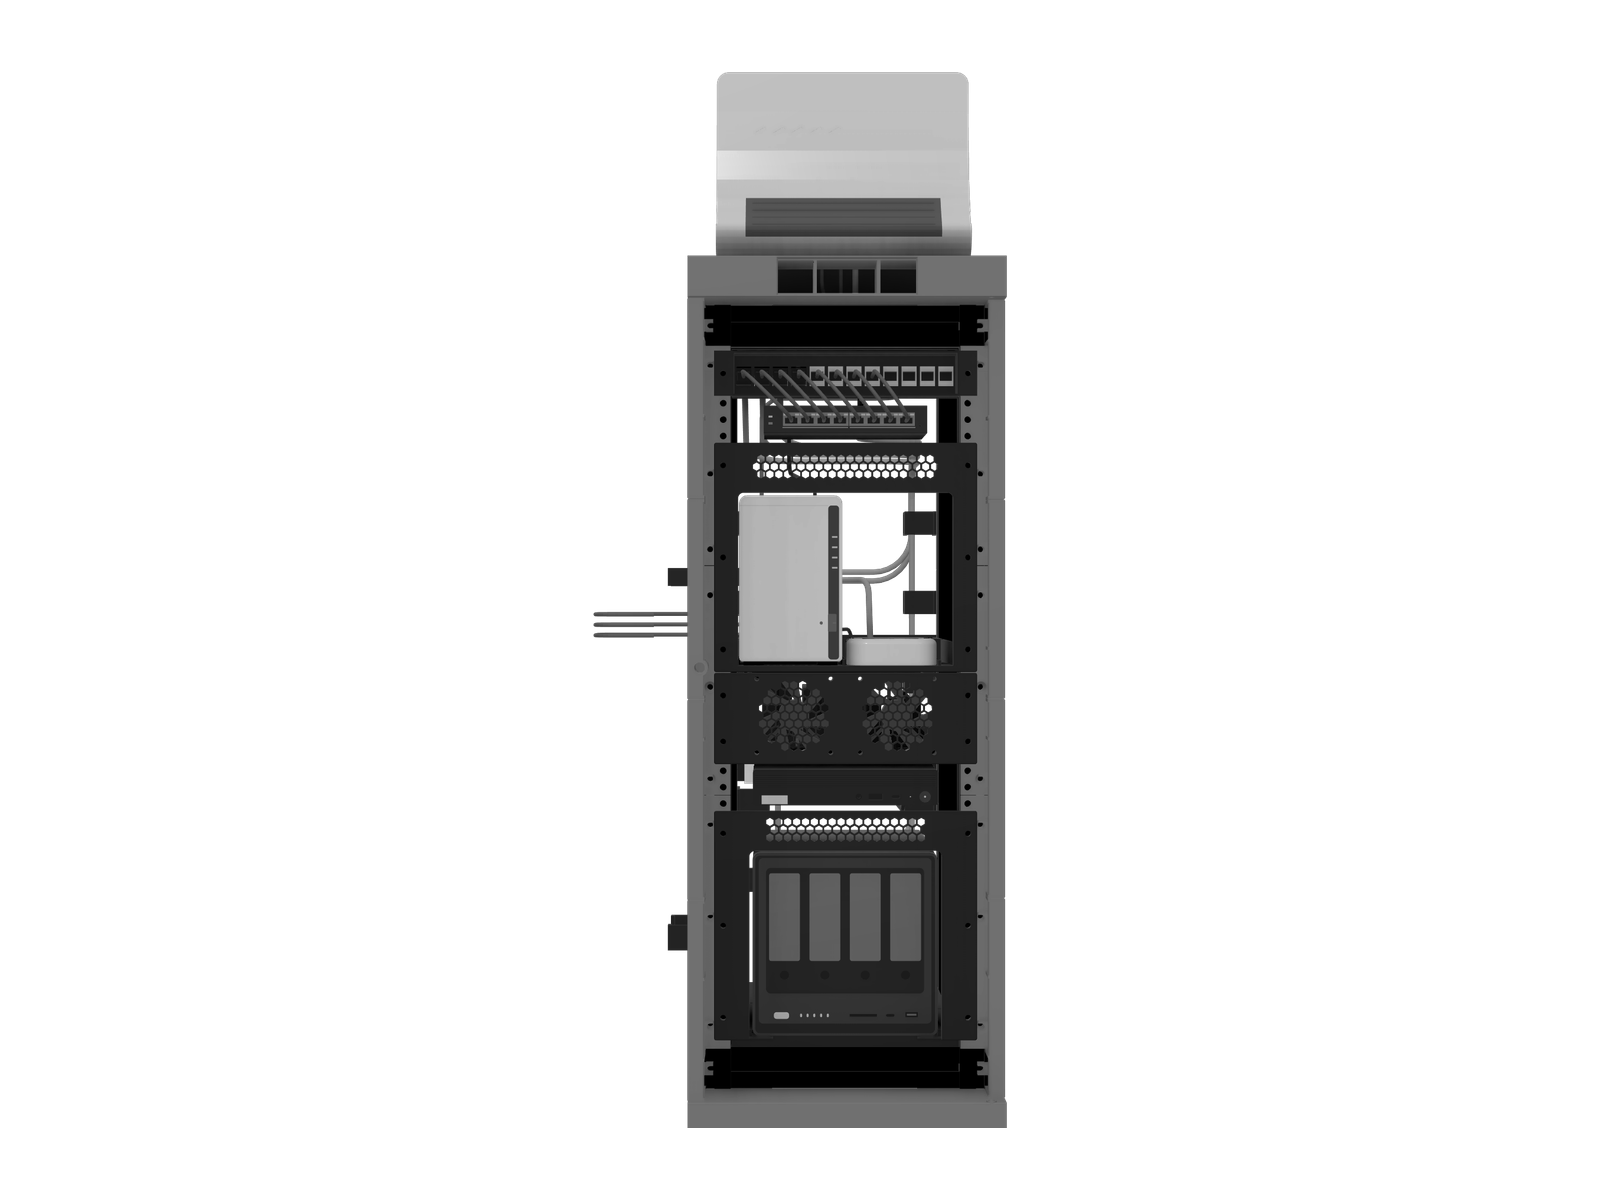
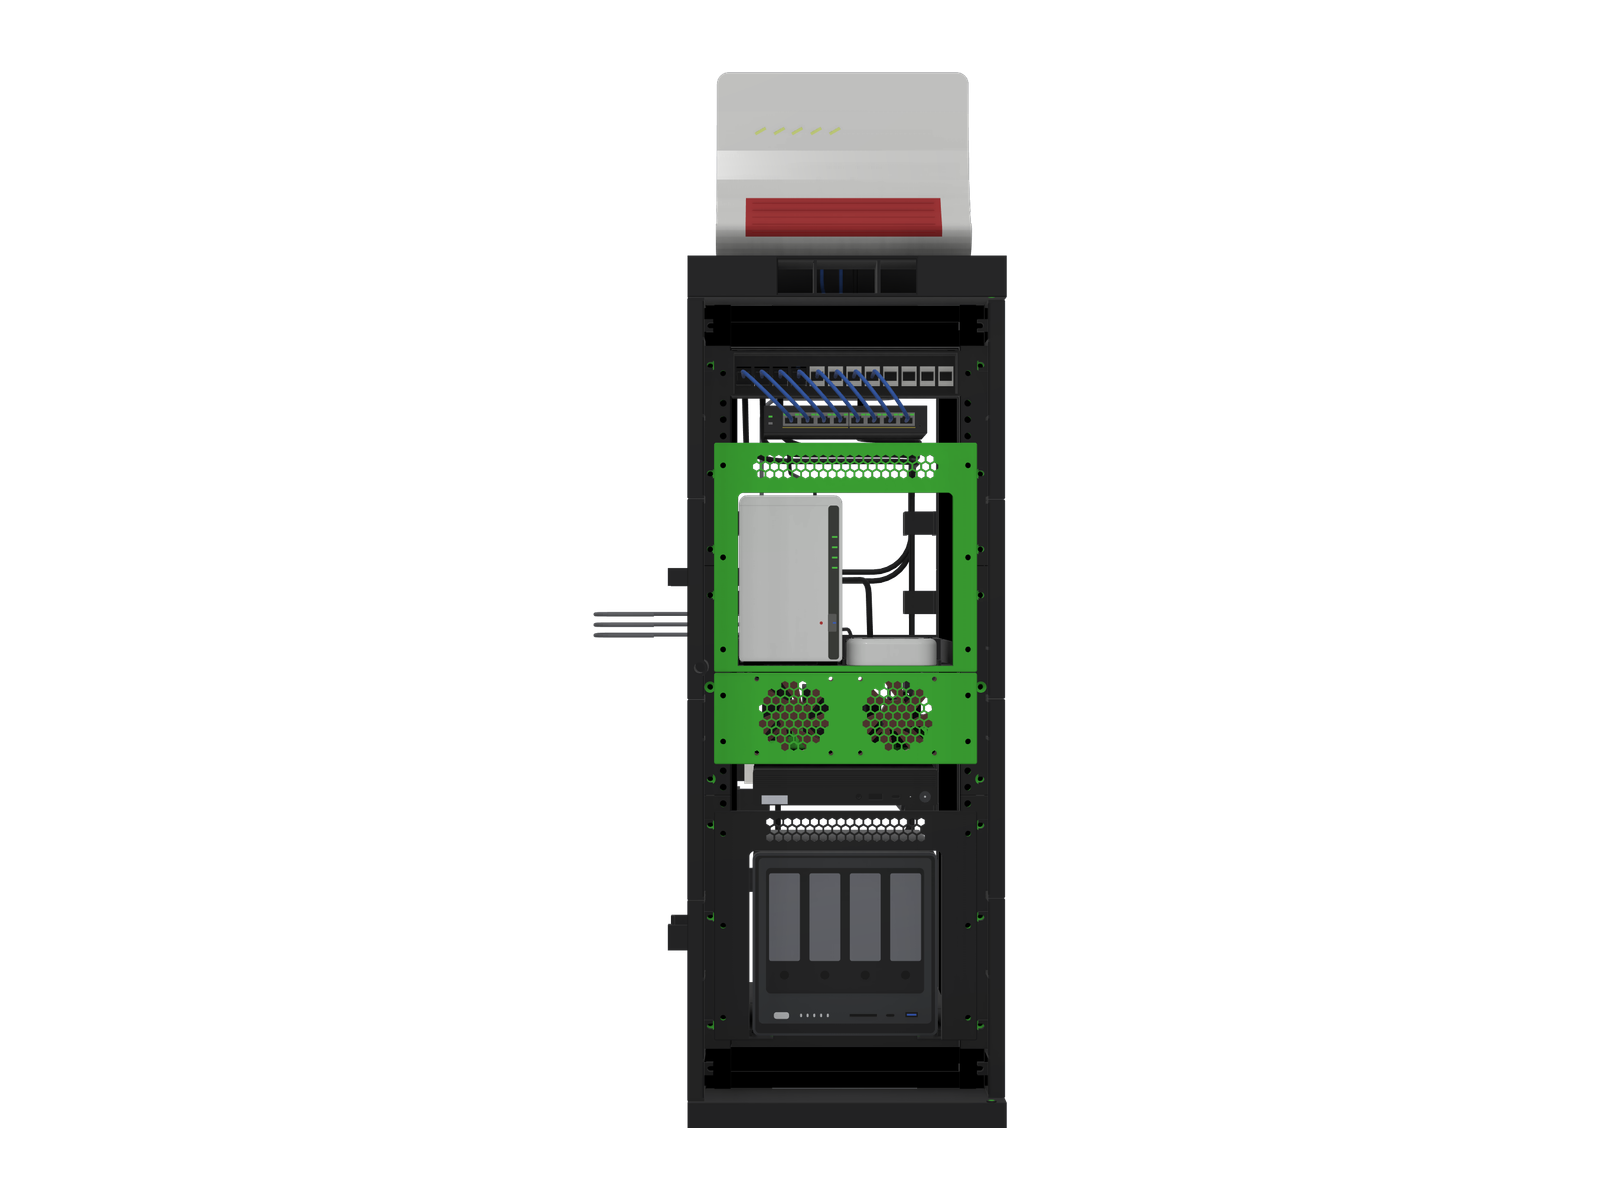
Rack: render con i colori di progetto (versione 21), non piu' in scala di grigi
Il modello Fusion ha ora i colori decisi: struttura stampata nera, dettagli
verdi (vassoi, cornice, piedini, tappi, fori delle viti), cavi per tipo,
apparecchi con i colori reali. Gli 8 render e il ritaglio dell'hero sono
rifatti a colori; l'eccezione alla regola "niente rosso nelle immagini"
(il rosso del router) e' scritta in ADR-018 come decisione di Lorenzo.

Changed region(s): [[0.4062, 0.1542, 0.6562, 0.9558]]

diff --git a/docs/architecture.md b/docs/architecture.md
@@ -283,6 +283,12 @@ definizione: riprende i colori del sito. I render di quella scheda restano a
 colori; tutti gli altri render con aspetti nella famiglia rosso-arancio passano
 da `prepare-renders.mjs --neutral`.
 
+**Seconda eccezione (2026-10-11, decisione di Lorenzo):** i render del rack
+homelab usano i colori di progetto decisi nel modello (struttura stampata nera,
+dettagli verdi, cavi per tipo, apparecchi con i colori reali, compreso il rosso
+del router): non più in scala di grigi. Il rosso che compare è quello di un
+apparecchio reale, non un accento dell'interfaccia.
+
 ## ADR-019 — Kit di design generato dal build (2026-09-24)
 
 **Decisione:** Claude Design riceve un bundle generato da
